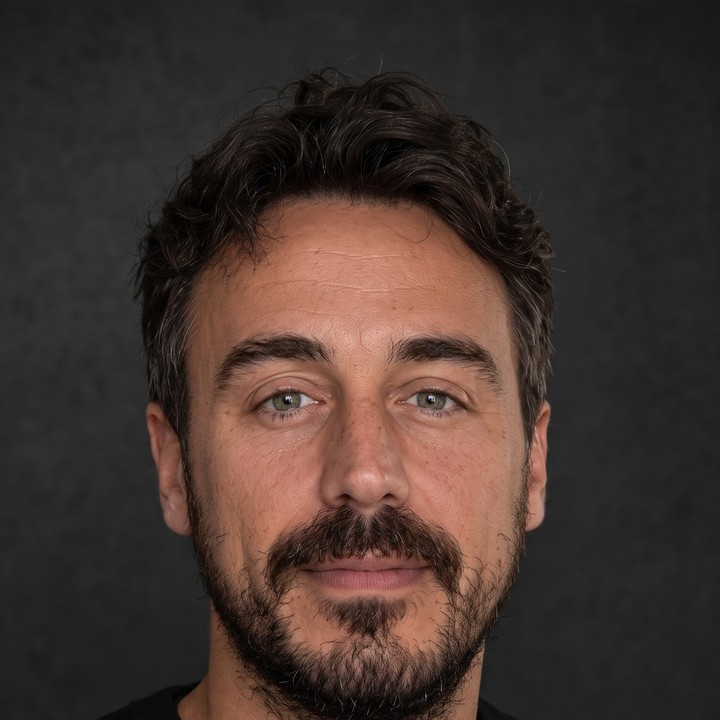
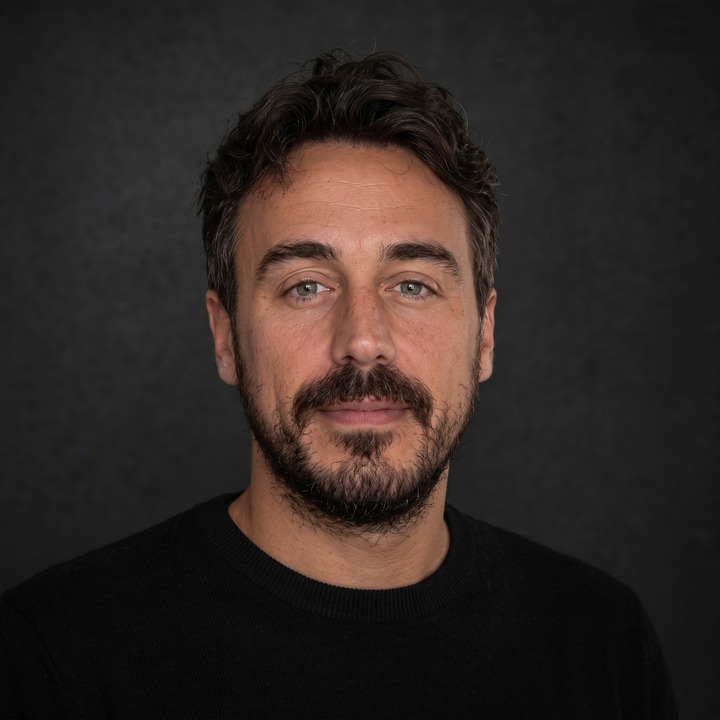
Creative Cables: order-number lookup, no configurator, uncropped Marco
Four corrections from Daniel.

- Order lookups take an order number, never an email. This was wrong on
  three transcripts, not one: the Creative Cables WISMO call and both
  the English and Italian ClimaConvenienza WISMO calls all had the
  agent offering to find an order by email. That describes behaviour
  the product does not have, on a page a customer will read, so it was
  fixed everywhere rather than only where he spotted it.
- Configurator is not part of the Creative Cables deployment. Removed
  from the knowledge-base chips, replaced with Order tracking, and also
  struck from the situation prose where it was named as an example.
- Marco's portrait published as sent. The source is already square, so
  it needed scaling only - the crop was doing nothing but losing pixels.
- 'What happens next' band removed.

Also corrected the Italian to 'Mi può dare' - the ASCII apostrophe I
used to dodge quoting was the only unaccented word on the page.

Verified on all three pages: no email lookup anywhere, chips correct,
no forward band, portrait 720x720 uncropped. Contrast clean. Full
sweep: ALL PAGES CLEAN.

Claude-Session: https://claude.ai/code/session_013pLVEYLQgosZdAbNZ93aEx

diff --git a/site/customers/creative-cables.html b/site/customers/creative-cables.html
@@ -467,9 +467,9 @@
         <div class="qcopy">
           <p class="eyebrow">The situation</p>
           <h2>Most inbound calls have a known answer</h2>
-          <p class="qbody">Shipping windows. Return periods. Warranty terms, which differ by country. Customs. Payment methods. Store opening hours. How the Configurator works. None of these are hard questions - they are the same questions, arriving all day, each one occupying a person who could be handling something that genuinely needs judgement.</p><p class="qbody">Underneath them sits the most repetitive request of all: where is my order. It was entirely human-handled, and it is the single most predictable call a retailer takes. The answer already exists in the order system; it just needed someone, or something, to read it out.</p>
+          <p class="qbody">Shipping windows. Return periods. Warranty terms, which differ by country. Customs. Payment methods. Store opening hours. None of these are hard questions - they are the same questions, arriving all day, each one occupying a person who could be handling something that genuinely needs judgement.</p><p class="qbody">Underneath them sits the most repetitive request of all: where is my order. It was entirely human-handled, and it is the single most predictable call a retailer takes. The answer already exists in the order system; it just needed someone, or something, to read it out.</p>
         </div>
-        <div class="kb"><p class="kb-h">What Elena knows</p><p class="kb-n">~50,000 words</p><div class="kb-list"><span>Shipping</span><span>Returns &amp; warranty</span><span>Warranty by country</span><span>Customs</span><span>Payments</span><span>Store services</span><span>Certifications</span><span>The Configurator</span><span>Product education</span></div><p class="kb-note">One knowledge base behind both agents, so the answer to a returns question is the same at 9am on Monday as it is at 7pm on Friday.</p></div>
+        <div class="kb"><p class="kb-h">What Elena knows</p><p class="kb-n">~50,000 words</p><div class="kb-list"><span>Shipping</span><span>Returns &amp; warranty</span><span>Warranty by country</span><span>Customs</span><span>Payments</span><span>Store services</span><span>Certifications</span><span>Order tracking</span><span>Product education</span></div><p class="kb-note">One knowledge base behind both agents, so the answer to a returns question is the same at 9am on Monday as it is at 7pm on Friday.</p></div>
       </div>
     </section>
     <section class="stack"><div class="stack-grid"><div class="stack-card"><h3>The same questions, all day</h3><p>Shipping, returns, warranty and payments repeat endlessly. The cost is not difficulty, it is volume against a finite team.</p></div><div class="stack-card"><h3>Where is my order was fully manual</h3><p>The most repetitive inbound reason on the line, answered by a person every single time, from data a machine can read directly.</p></div><div class="stack-card"><h3>Consistency is the real requirement</h3><p>Return windows, customs rules and warranty terms vary by country. They have to be right, and identical, on every call - not approximately right depending on who answered.</p></div></div></section>
@@ -486,7 +486,7 @@
       <div class="call-panel">
         <div class="panel-head"><span class="ph-left"><span class="dot"></span>Live call - Sabato Agent</span>
           <span class="ph-time">· 00:48</span></div>
-        <div class="t-row caller"><span class="t-spk">CALLER<svg viewBox="0 0 16 12" aria-hidden="true"><g fill="currentColor"><rect x="0" y="3.5" width="2.5" height="5" rx="1.25"/><rect x="4.5" y="1.5" width="2.5" height="9" rx="1.25"/><rect x="9" y="0" width="2.5" height="12" rx="1.25"/><rect x="13.5" y="3.5" width="2.5" height="5" rx="1.25"/></g></svg></span><p>Hi, I ordered a pendant lamp and some cable last week and I&#x27;d like to know where it is.</p></div><div class="t-row agent"><span class="t-spk">AGENT<svg viewBox="0 0 16 12" aria-hidden="true"><g fill="currentColor"><rect x="0" y="3.5" width="2.5" height="5" rx="1.25"/><rect x="4.5" y="1.5" width="2.5" height="9" rx="1.25"/><rect x="9" y="0" width="2.5" height="12" rx="1.25"/><rect x="13.5" y="3.5" width="2.5" height="5" rx="1.25"/></g></svg></span><p>Of course. I&#x27;m Elena from Creative Cables. Can I take the order number, or the email address you ordered with?</p></div><div class="t-row caller"><span class="t-spk">CALLER<svg viewBox="0 0 16 12" aria-hidden="true"><g fill="currentColor"><rect x="0" y="3.5" width="2.5" height="5" rx="1.25"/><rect x="4.5" y="1.5" width="2.5" height="9" rx="1.25"/><rect x="9" y="0" width="2.5" height="12" rx="1.25"/><rect x="13.5" y="3.5" width="2.5" height="5" rx="1.25"/></g></svg></span><p>The email is easier.</p></div><div class="t-row agent"><span class="t-spk">AGENT<svg viewBox="0 0 16 12" aria-hidden="true"><g fill="currentColor"><rect x="0" y="3.5" width="2.5" height="5" rx="1.25"/><rect x="4.5" y="1.5" width="2.5" height="9" rx="1.25"/><rect x="9" y="0" width="2.5" height="12" rx="1.25"/><rect x="13.5" y="3.5" width="2.5" height="5" rx="1.25"/></g></svg></span><p>Thank you. I can see the order - it left us on Tuesday and the courier has it out for delivery today. I&#x27;m sending you the tracking link by text now.</p></div><div class="t-row caller"><span class="t-spk">CALLER<svg viewBox="0 0 16 12" aria-hidden="true"><g fill="currentColor"><rect x="0" y="3.5" width="2.5" height="5" rx="1.25"/><rect x="4.5" y="1.5" width="2.5" height="9" rx="1.25"/><rect x="9" y="0" width="2.5" height="12" rx="1.25"/><rect x="13.5" y="3.5" width="2.5" height="5" rx="1.25"/></g></svg></span><p>Perfect. And the cable was on the same order?</p></div><div class="t-row agent"><span class="t-spk">AGENT<svg viewBox="0 0 16 12" aria-hidden="true"><g fill="currentColor"><rect x="0" y="3.5" width="2.5" height="5" rx="1.25"/><rect x="4.5" y="1.5" width="2.5" height="9" rx="1.25"/><rect x="9" y="0" width="2.5" height="12" rx="1.25"/><rect x="13.5" y="3.5" width="2.5" height="5" rx="1.25"/></g></svg></span><p>It was, both items are in the same parcel.</p></div>
+        <div class="t-row caller"><span class="t-spk">CALLER<svg viewBox="0 0 16 12" aria-hidden="true"><g fill="currentColor"><rect x="0" y="3.5" width="2.5" height="5" rx="1.25"/><rect x="4.5" y="1.5" width="2.5" height="9" rx="1.25"/><rect x="9" y="0" width="2.5" height="12" rx="1.25"/><rect x="13.5" y="3.5" width="2.5" height="5" rx="1.25"/></g></svg></span><p>Hi, I ordered a pendant lamp and some cable last week and I&#x27;d like to know where it is.</p></div><div class="t-row agent"><span class="t-spk">AGENT<svg viewBox="0 0 16 12" aria-hidden="true"><g fill="currentColor"><rect x="0" y="3.5" width="2.5" height="5" rx="1.25"/><rect x="4.5" y="1.5" width="2.5" height="9" rx="1.25"/><rect x="9" y="0" width="2.5" height="12" rx="1.25"/><rect x="13.5" y="3.5" width="2.5" height="5" rx="1.25"/></g></svg></span><p>Of course. I&#x27;m Elena from Creative Cables. Can I take the order number?</p></div><div class="t-row caller"><span class="t-spk">CALLER<svg viewBox="0 0 16 12" aria-hidden="true"><g fill="currentColor"><rect x="0" y="3.5" width="2.5" height="5" rx="1.25"/><rect x="4.5" y="1.5" width="2.5" height="9" rx="1.25"/><rect x="9" y="0" width="2.5" height="12" rx="1.25"/><rect x="13.5" y="3.5" width="2.5" height="5" rx="1.25"/></g></svg></span><p>It&#x27;s 30294.</p></div><div class="t-row agent"><span class="t-spk">AGENT<svg viewBox="0 0 16 12" aria-hidden="true"><g fill="currentColor"><rect x="0" y="3.5" width="2.5" height="5" rx="1.25"/><rect x="4.5" y="1.5" width="2.5" height="9" rx="1.25"/><rect x="9" y="0" width="2.5" height="12" rx="1.25"/><rect x="13.5" y="3.5" width="2.5" height="5" rx="1.25"/></g></svg></span><p>Thank you. I can see the order - it left us on Tuesday and the courier has it out for delivery today. I&#x27;m sending you the tracking link by text now.</p></div><div class="t-row caller"><span class="t-spk">CALLER<svg viewBox="0 0 16 12" aria-hidden="true"><g fill="currentColor"><rect x="0" y="3.5" width="2.5" height="5" rx="1.25"/><rect x="4.5" y="1.5" width="2.5" height="9" rx="1.25"/><rect x="9" y="0" width="2.5" height="12" rx="1.25"/><rect x="13.5" y="3.5" width="2.5" height="5" rx="1.25"/></g></svg></span><p>Perfect. And the cable was on the same order?</p></div><div class="t-row agent"><span class="t-spk">AGENT<svg viewBox="0 0 16 12" aria-hidden="true"><g fill="currentColor"><rect x="0" y="3.5" width="2.5" height="5" rx="1.25"/><rect x="4.5" y="1.5" width="2.5" height="9" rx="1.25"/><rect x="9" y="0" width="2.5" height="12" rx="1.25"/><rect x="13.5" y="3.5" width="2.5" height="5" rx="1.25"/></g></svg></span><p>It was, both items are in the same parcel.</p></div>
       </div>
       <p class="call-sub"><svg class="ic" viewBox="0 0 24 24" fill="none" stroke="rgb(204,255,0)" stroke-width="2" stroke-linecap="round" stroke-linejoin="round" aria-hidden="true"><circle cx="11" cy="11" r="7.5"/><path d="M3.5 11h15"/><path d="M11 3.5c2 2.4 3 5 3 7.5s-1 5.1-3 7.5"/><path d="M11 3.5c-2 2.4-3 5-3 7.5s1 5.1 3 7.5"/></svg><span>General information</span></p>
       <p class="call-caption">A returns question, answered the same way every time</p>
@@ -510,11 +510,6 @@
         <div class="who"><strong>Marco Logreco</strong><span>Head of E-Commerce, Creative Cables</span></div>
         <p class="pending">Draft wording - awaiting written sign-off from Marco Logreco</p>
       </div>
-    </section>
-    <section class="fwd">
-      <p class="eyebrow">What happens next</p>
-      <h2>The resolution rate is still climbing</h2>
-      <p>Four weeks is early, and the number is designed to move. Reviewing the calls that were transferred surfaced specific, fixable gaps - store hours, reseller lookup, a correction to payment information - each of which goes back into the knowledge base. Weekly volume roughly quadrupled through July as routing ramped up, and the line absorbed it with no added headcount.</p>
     </section>
     <section class="cta-band">
       <h2>Want the same for your <span class="nb">e-commerce</span> store?</h2>

diff --git a/site/it/clienti/clima-convenienza.html b/site/it/clienti/clima-convenienza.html
@@ -459,7 +459,7 @@
       <div class="call-panel">
         <div class="panel-head"><span class="ph-left"><span class="dot"></span>Live call - Sabato Agent</span>
           <span class="ph-time">· 00:51</span></div>
-        <div class="t-row caller"><span class="t-spk">CALLER<svg viewBox="0 0 16 12" aria-hidden="true"><g fill="currentColor"><rect x="0" y="3.5" width="2.5" height="5" rx="1.25"/><rect x="4.5" y="1.5" width="2.5" height="9" rx="1.25"/><rect x="9" y="0" width="2.5" height="12" rx="1.25"/><rect x="13.5" y="3.5" width="2.5" height="5" rx="1.25"/></g></svg></span><p>Buongiorno, ho ordinato una pompa di calore la settimana scorsa e non ho più saputo nulla.</p></div><div class="t-row agent"><span class="t-spk">AGENT<svg viewBox="0 0 16 12" aria-hidden="true"><g fill="currentColor"><rect x="0" y="3.5" width="2.5" height="5" rx="1.25"/><rect x="4.5" y="1.5" width="2.5" height="9" rx="1.25"/><rect x="9" y="0" width="2.5" height="12" rx="1.25"/><rect x="13.5" y="3.5" width="2.5" height="5" rx="1.25"/></g></svg></span><p>Controllo subito. Ha il numero d&#x27;ordine, oppure l&#x27;email con cui ha ordinato?</p></div><div class="t-row caller"><span class="t-spk">CALLER<svg viewBox="0 0 16 12" aria-hidden="true"><g fill="currentColor"><rect x="0" y="3.5" width="2.5" height="5" rx="1.25"/><rect x="4.5" y="1.5" width="2.5" height="9" rx="1.25"/><rect x="9" y="0" width="2.5" height="12" rx="1.25"/><rect x="13.5" y="3.5" width="2.5" height="5" rx="1.25"/></g></svg></span><p>L&#x27;email va bene.</p></div><div class="t-row agent"><span class="t-spk">AGENT<svg viewBox="0 0 16 12" aria-hidden="true"><g fill="currentColor"><rect x="0" y="3.5" width="2.5" height="5" rx="1.25"/><rect x="4.5" y="1.5" width="2.5" height="9" rx="1.25"/><rect x="9" y="0" width="2.5" height="12" rx="1.25"/><rect x="13.5" y="3.5" width="2.5" height="5" rx="1.25"/></g></svg></span><p>Grazie. Il suo ordine è partito dal magazzino ieri ed è previsto per giovedì. Le mando adesso il link di tracking via messaggio.</p></div><div class="t-row caller"><span class="t-spk">CALLER<svg viewBox="0 0 16 12" aria-hidden="true"><g fill="currentColor"><rect x="0" y="3.5" width="2.5" height="5" rx="1.25"/><rect x="4.5" y="1.5" width="2.5" height="9" rx="1.25"/><rect x="9" y="0" width="2.5" height="12" rx="1.25"/><rect x="13.5" y="3.5" width="2.5" height="5" rx="1.25"/></g></svg></span><p>E se non c&#x27;è nessuno in casa alla consegna?</p></div><div class="t-row agent"><span class="t-spk">AGENT<svg viewBox="0 0 16 12" aria-hidden="true"><g fill="currentColor"><rect x="0" y="3.5" width="2.5" height="5" rx="1.25"/><rect x="4.5" y="1.5" width="2.5" height="9" rx="1.25"/><rect x="9" y="0" width="2.5" height="12" rx="1.25"/><rect x="13.5" y="3.5" width="2.5" height="5" rx="1.25"/></g></svg></span><p>Il corriere lascia l&#x27;avviso e riprova il giorno dopo. Se preferisce fissare una fascia precisa, segnalo e il team gliela conferma.</p></div>
+        <div class="t-row caller"><span class="t-spk">CALLER<svg viewBox="0 0 16 12" aria-hidden="true"><g fill="currentColor"><rect x="0" y="3.5" width="2.5" height="5" rx="1.25"/><rect x="4.5" y="1.5" width="2.5" height="9" rx="1.25"/><rect x="9" y="0" width="2.5" height="12" rx="1.25"/><rect x="13.5" y="3.5" width="2.5" height="5" rx="1.25"/></g></svg></span><p>Buongiorno, ho ordinato una pompa di calore la settimana scorsa e non ho più saputo nulla.</p></div><div class="t-row agent"><span class="t-spk">AGENT<svg viewBox="0 0 16 12" aria-hidden="true"><g fill="currentColor"><rect x="0" y="3.5" width="2.5" height="5" rx="1.25"/><rect x="4.5" y="1.5" width="2.5" height="9" rx="1.25"/><rect x="9" y="0" width="2.5" height="12" rx="1.25"/><rect x="13.5" y="3.5" width="2.5" height="5" rx="1.25"/></g></svg></span><p>Controllo subito. Mi può dare il numero d&#x27;ordine?</p></div><div class="t-row caller"><span class="t-spk">CALLER<svg viewBox="0 0 16 12" aria-hidden="true"><g fill="currentColor"><rect x="0" y="3.5" width="2.5" height="5" rx="1.25"/><rect x="4.5" y="1.5" width="2.5" height="9" rx="1.25"/><rect x="9" y="0" width="2.5" height="12" rx="1.25"/><rect x="13.5" y="3.5" width="2.5" height="5" rx="1.25"/></g></svg></span><p>Un attimo - 48120.</p></div><div class="t-row agent"><span class="t-spk">AGENT<svg viewBox="0 0 16 12" aria-hidden="true"><g fill="currentColor"><rect x="0" y="3.5" width="2.5" height="5" rx="1.25"/><rect x="4.5" y="1.5" width="2.5" height="9" rx="1.25"/><rect x="9" y="0" width="2.5" height="12" rx="1.25"/><rect x="13.5" y="3.5" width="2.5" height="5" rx="1.25"/></g></svg></span><p>Grazie. Il suo ordine è partito dal magazzino ieri ed è previsto per giovedì. Le mando adesso il link di tracking via messaggio.</p></div><div class="t-row caller"><span class="t-spk">CALLER<svg viewBox="0 0 16 12" aria-hidden="true"><g fill="currentColor"><rect x="0" y="3.5" width="2.5" height="5" rx="1.25"/><rect x="4.5" y="1.5" width="2.5" height="9" rx="1.25"/><rect x="9" y="0" width="2.5" height="12" rx="1.25"/><rect x="13.5" y="3.5" width="2.5" height="5" rx="1.25"/></g></svg></span><p>E se non c&#x27;è nessuno in casa alla consegna?</p></div><div class="t-row agent"><span class="t-spk">AGENT<svg viewBox="0 0 16 12" aria-hidden="true"><g fill="currentColor"><rect x="0" y="3.5" width="2.5" height="5" rx="1.25"/><rect x="4.5" y="1.5" width="2.5" height="9" rx="1.25"/><rect x="9" y="0" width="2.5" height="12" rx="1.25"/><rect x="13.5" y="3.5" width="2.5" height="5" rx="1.25"/></g></svg></span><p>Il corriere lascia l&#x27;avviso e riprova il giorno dopo. Se preferisce fissare una fascia precisa, segnalo e il team gliela conferma.</p></div>
       </div>
       <p class="phone-note">I dettagli di prodotto e ordine qui sono indicativi. In chiamata reale l&#x27;agente legge catalogo, disponibilità e ordini veri di ClimaConvenienza - e gestisce le stesse due chiamate in francese e tedesco.</p>
     </section>

diff --git a/site/customers/clima-convenienza.html b/site/customers/clima-convenienza.html
@@ -492,7 +492,7 @@
       <div class="call-panel">
         <div class="panel-head"><span class="ph-left"><span class="dot"></span>Live call - Sabato Agent</span>
           <span class="ph-time">· 00:51</span></div>
-        <div class="t-row caller"><span class="t-spk">CALLER<svg viewBox="0 0 16 12" aria-hidden="true"><g fill="currentColor"><rect x="0" y="3.5" width="2.5" height="5" rx="1.25"/><rect x="4.5" y="1.5" width="2.5" height="9" rx="1.25"/><rect x="9" y="0" width="2.5" height="12" rx="1.25"/><rect x="13.5" y="3.5" width="2.5" height="5" rx="1.25"/></g></svg></span><p>Hi, I ordered a heat pump last week and I&#x27;ve not heard anything.</p></div><div class="t-row agent"><span class="t-spk">AGENT<svg viewBox="0 0 16 12" aria-hidden="true"><g fill="currentColor"><rect x="0" y="3.5" width="2.5" height="5" rx="1.25"/><rect x="4.5" y="1.5" width="2.5" height="9" rx="1.25"/><rect x="9" y="0" width="2.5" height="12" rx="1.25"/><rect x="13.5" y="3.5" width="2.5" height="5" rx="1.25"/></g></svg></span><p>I can check that now. Do you have the order number, or the email address you ordered with?</p></div><div class="t-row caller"><span class="t-spk">CALLER<svg viewBox="0 0 16 12" aria-hidden="true"><g fill="currentColor"><rect x="0" y="3.5" width="2.5" height="5" rx="1.25"/><rect x="4.5" y="1.5" width="2.5" height="9" rx="1.25"/><rect x="9" y="0" width="2.5" height="12" rx="1.25"/><rect x="13.5" y="3.5" width="2.5" height="5" rx="1.25"/></g></svg></span><p>The email is fine.</p></div><div class="t-row agent"><span class="t-spk">AGENT<svg viewBox="0 0 16 12" aria-hidden="true"><g fill="currentColor"><rect x="0" y="3.5" width="2.5" height="5" rx="1.25"/><rect x="4.5" y="1.5" width="2.5" height="9" rx="1.25"/><rect x="9" y="0" width="2.5" height="12" rx="1.25"/><rect x="13.5" y="3.5" width="2.5" height="5" rx="1.25"/></g></svg></span><p>Thank you. Your order left the warehouse yesterday and it&#x27;s due Thursday. I&#x27;m sending you the tracking link by text now.</p></div><div class="t-row caller"><span class="t-spk">CALLER<svg viewBox="0 0 16 12" aria-hidden="true"><g fill="currentColor"><rect x="0" y="3.5" width="2.5" height="5" rx="1.25"/><rect x="4.5" y="1.5" width="2.5" height="9" rx="1.25"/><rect x="9" y="0" width="2.5" height="12" rx="1.25"/><rect x="13.5" y="3.5" width="2.5" height="5" rx="1.25"/></g></svg></span><p>And what if nobody&#x27;s home when it arrives?</p></div><div class="t-row agent"><span class="t-spk">AGENT<svg viewBox="0 0 16 12" aria-hidden="true"><g fill="currentColor"><rect x="0" y="3.5" width="2.5" height="5" rx="1.25"/><rect x="4.5" y="1.5" width="2.5" height="9" rx="1.25"/><rect x="9" y="0" width="2.5" height="12" rx="1.25"/><rect x="13.5" y="3.5" width="2.5" height="5" rx="1.25"/></g></svg></span><p>The courier leaves a card and tries again the next day. If you&#x27;d rather fix a specific slot, I&#x27;ll note that and the team will confirm it with you.</p></div>
+        <div class="t-row caller"><span class="t-spk">CALLER<svg viewBox="0 0 16 12" aria-hidden="true"><g fill="currentColor"><rect x="0" y="3.5" width="2.5" height="5" rx="1.25"/><rect x="4.5" y="1.5" width="2.5" height="9" rx="1.25"/><rect x="9" y="0" width="2.5" height="12" rx="1.25"/><rect x="13.5" y="3.5" width="2.5" height="5" rx="1.25"/></g></svg></span><p>Hi, I ordered a heat pump last week and I&#x27;ve not heard anything.</p></div><div class="t-row agent"><span class="t-spk">AGENT<svg viewBox="0 0 16 12" aria-hidden="true"><g fill="currentColor"><rect x="0" y="3.5" width="2.5" height="5" rx="1.25"/><rect x="4.5" y="1.5" width="2.5" height="9" rx="1.25"/><rect x="9" y="0" width="2.5" height="12" rx="1.25"/><rect x="13.5" y="3.5" width="2.5" height="5" rx="1.25"/></g></svg></span><p>I can check that now. Do you have the order number to hand?</p></div><div class="t-row caller"><span class="t-spk">CALLER<svg viewBox="0 0 16 12" aria-hidden="true"><g fill="currentColor"><rect x="0" y="3.5" width="2.5" height="5" rx="1.25"/><rect x="4.5" y="1.5" width="2.5" height="9" rx="1.25"/><rect x="9" y="0" width="2.5" height="12" rx="1.25"/><rect x="13.5" y="3.5" width="2.5" height="5" rx="1.25"/></g></svg></span><p>One moment - it&#x27;s 48120.</p></div><div class="t-row agent"><span class="t-spk">AGENT<svg viewBox="0 0 16 12" aria-hidden="true"><g fill="currentColor"><rect x="0" y="3.5" width="2.5" height="5" rx="1.25"/><rect x="4.5" y="1.5" width="2.5" height="9" rx="1.25"/><rect x="9" y="0" width="2.5" height="12" rx="1.25"/><rect x="13.5" y="3.5" width="2.5" height="5" rx="1.25"/></g></svg></span><p>Thank you. Your order left the warehouse yesterday and it&#x27;s due Thursday. I&#x27;m sending you the tracking link by text now.</p></div><div class="t-row caller"><span class="t-spk">CALLER<svg viewBox="0 0 16 12" aria-hidden="true"><g fill="currentColor"><rect x="0" y="3.5" width="2.5" height="5" rx="1.25"/><rect x="4.5" y="1.5" width="2.5" height="9" rx="1.25"/><rect x="9" y="0" width="2.5" height="12" rx="1.25"/><rect x="13.5" y="3.5" width="2.5" height="5" rx="1.25"/></g></svg></span><p>And what if nobody&#x27;s home when it arrives?</p></div><div class="t-row agent"><span class="t-spk">AGENT<svg viewBox="0 0 16 12" aria-hidden="true"><g fill="currentColor"><rect x="0" y="3.5" width="2.5" height="5" rx="1.25"/><rect x="4.5" y="1.5" width="2.5" height="9" rx="1.25"/><rect x="9" y="0" width="2.5" height="12" rx="1.25"/><rect x="13.5" y="3.5" width="2.5" height="5" rx="1.25"/></g></svg></span><p>The courier leaves a card and tries again the next day. If you&#x27;d rather fix a specific slot, I&#x27;ll note that and the team will confirm it with you.</p></div>
       </div>
       <p class="phone-note">Product and order details here are illustrative. On a live call the agent reads ClimaConvenienza&#x27;s real catalogue, stock and order data - and takes the same two calls in French and German.</p>
     </section>

diff --git a/customer_data.py b/customer_data.py
@@ -125,9 +125,8 @@ CUSTOMERS = {
              "duration": "00:51",
              "lines": [
                  ("caller", "Hi, I ordered a heat pump last week and I've not heard anything."),
-                 ("agent", "I can check that now. Do you have the order number, or the email "
-                           "address you ordered with?"),
-                 ("caller", "The email is fine."),
+                 ("agent", "I can check that now. Do you have the order number to hand?"),
+                 ("caller", "One moment - it's 48120."),
                  ("agent", "Thank you. Your order left the warehouse yesterday and it's due "
                            "Thursday. I'm sending you the tracking link by text now."),
                  ("caller", "And what if nobody's home when it arrives?"),
@@ -176,7 +175,7 @@ CUSTOMERS = {
             "title": "What Elena knows",
             "number": "~50,000 words",
             "topics": ["Shipping", "Returns & warranty", "Warranty by country", "Customs",
-                       "Payments", "Store services", "Certifications", "The Configurator",
+                       "Payments", "Store services", "Certifications", "Order tracking",
                        "Product education"],
             "note": "One knowledge base behind both agents, so the answer to a returns question "
                     "is the same at 9am on Monday as it is at 7pm on Friday.",
@@ -202,7 +201,7 @@ CUSTOMERS = {
         "situation_h2": "Most inbound calls have a known answer",
         "situation_body": [
             "Shipping windows. Return periods. Warranty terms, which differ by country. Customs. "
-            "Payment methods. Store opening hours. How the Configurator works. None of these are "
+            "Payment methods. Store opening hours. None of these are "
             "hard questions - they are the same questions, arriving all day, each one occupying a "
             "person who could be handling something that genuinely needs judgement.",
             "Underneath them sits the most repetitive request of all: where is my order. It was "
@@ -246,9 +245,9 @@ CUSTOMERS = {
              "lines": [
                  ("caller", "Hi, I ordered a pendant lamp and some cable last week and I'd like to "
                             "know where it is."),
-                 ("agent", "Of course. I'm Elena from Creative Cables. Can I take the order number, "
-                           "or the email address you ordered with?"),
-                 ("caller", "The email is easier."),
+                 ("agent", "Of course. I'm Elena from Creative Cables. Can I take the order "
+                           "number?"),
+                 ("caller", "It's 30294."),
                  ("agent", "Thank you. I can see the order - it left us on Tuesday and the courier "
                            "has it out for delivery today. I'm sending you the tracking link by "
                            "text now."),
@@ -292,15 +291,6 @@ CUSTOMERS = {
                   "on-brand and instantly. Our team now focuses on the cases that actually need a "
                   "person."),
         "quote_pending": True,
-
-        "forward_eyebrow": "What happens next",
-        "forward_h2": "The resolution rate is still climbing",
-        "forward_body": ("Four weeks is early, and the number is designed to move. Reviewing the "
-                         "calls that were transferred surfaced specific, fixable gaps - store "
-                         "hours, reseller lookup, a correction to payment information - each of "
-                         "which goes back into the knowledge base. Weekly volume roughly quadrupled "
-                         "through July as routing ramped up, and the line absorbed it with no added "
-                         "headcount."),
 
         "cta_h2": "Want the same for your e-commerce store?",
         "cta_sub": ("A pilot runs on your real calls and measures what changed against your own "

diff --git a/customer_data_it.py b/customer_data_it.py
@@ -119,9 +119,8 @@ CUSTOMERS_IT = {
              "lines": [
                  ("caller", "Buongiorno, ho ordinato una pompa di calore la settimana scorsa e non "
                             "ho più saputo nulla."),
-                 ("agent", "Controllo subito. Ha il numero d'ordine, oppure l'email con cui ha "
-                           "ordinato?"),
-                 ("caller", "L'email va bene."),
+                 ("agent", "Controllo subito. Mi può dare il numero d'ordine?"),
+                 ("caller", "Un attimo - 48120."),
                  ("agent", "Grazie. Il suo ordine è partito dal magazzino ieri ed è previsto per "
                            "giovedì. Le mando adesso il link di tracking via messaggio."),
                  ("caller", "E se non c'è nessuno in casa alla consegna?"),
